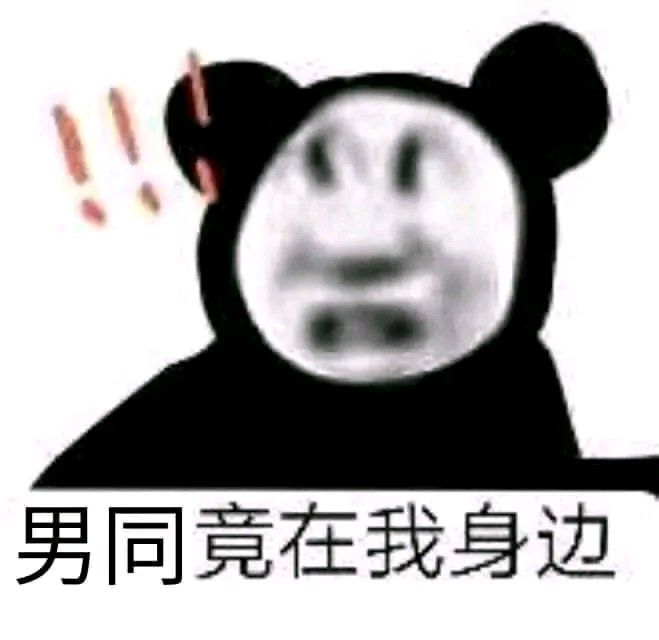
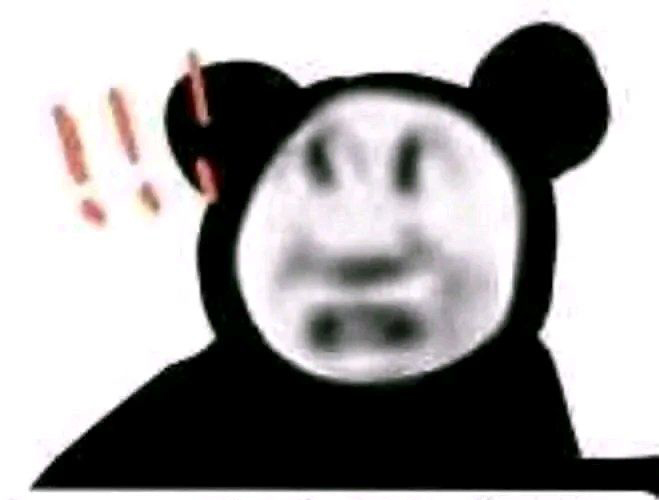
-> 表情包function

diff --git a/src/main/java/com/aye10032/functions/LuXunFunc.java b/src/main/java/com/aye10032/functions/LuXunFunc.java
@@ -52,8 +52,9 @@ public class LuXunFunc extends BaseFunc {
         if (msgs[0].equals(".鲁迅") && msgs.length == 2) {
             addText(1, msgs[1]);
             zibenbot.replyMsg(simpleMsg, zibenbot.getImg(output_path));
-        } else if (msgs[0].contains("竟在") && msgs[0].contains(".jpg") && msgs.length == 1) {
-            //todo 待写
+        } else if ((msgs[0].contains("竟在") || msgs[0].contains("竟是")) && msgs[0].contains(".jpg") && msgs.length == 1) {
+            addText(2, simpleMsg.getMsg().substring(0, simpleMsg.getMsg().lastIndexOf('.')));
+            replyMsg(simpleMsg, zibenbot.getImg(output_path));
         } else if (msgs[0].equals(".黑白") && msgs.length >= 2) {
             List<Image> images = zibenbot.getImgFromMsg(simpleMsg);
             if (images.size() == 0) {
@@ -64,7 +65,7 @@ public class LuXunFunc extends BaseFunc {
                     ImageIO.write((RenderedImage) images.get(0), "png", file);
 //                    addBlack_White(download_img_path, Arrays.copyOfRange(msgs, 1, msgs.length));
                     StringBuilder builder = new StringBuilder();
-                    for (String str:msgs){
+                    for (String str : msgs) {
                         builder.append(str).append("\n");
                     }
                     zibenbot.replyMsg(simpleMsg, builder.toString());
@@ -75,13 +76,14 @@ public class LuXunFunc extends BaseFunc {
         }
     }
 
-/*    public static void main(String[] args) {
-        File os = new File("data\\cv");
-
-        LuXunFunc luXunFunc = new LuXunFunc(os.getAbsolutePath());
-//        luXunFunc.addText(1, "我没说过 --鲁迅");
-        luXunFunc.addBlack_White("data\\image\\biaoqing\\test.png",new String[]{" 人固有一死 "," people always die "});
-    }*/
+//    public static void main(String[] args) {
+//        System.load(System.getProperty("user.dir") + "\\data\\cv\\opencv_java430.dll");
+////        File os = new File("data\\cv");
+//
+//        LuXunFunc luXunFunc = new LuXunFunc(os.getAbsolutePath());
+////        luXunFunc.addText(1, "我没说过 --鲁迅");
+//        luXunFunc.addBlack_White("data\\image\\biaoqing\\test.png",new String[]{" 人固有一死 "," people always die "});
+//    }
 
     public void addText(int flag, String text) {
         Mat src = imread(ImgMap.get(flag));
@@ -93,22 +95,52 @@ public class LuXunFunc extends BaseFunc {
         Mat dst = src.clone();
 
         Font font = new Font("微软雅黑", Font.PLAIN, 130);
+        List<String> text_list = new ArrayList<>();
+
+        int last = text.length() % 10;
+        int times = text.length() / 10;
+        if (times>=1) {
+            for (int i = 0; i < times; i++) {
+                text_list.add(text.substring(i * 10, i * 10 + 10));
+            }
+        }
+        if (last != 0) {
+            StringBuilder builder = new StringBuilder();
+            String substring = text.substring(text.length() - last, text.length());
+            if (times == 0){
+                for (int i = 0; i < (10 - last) / 2; i++) {
+                    builder.append("    ");
+                }
+                builder.append(substring);
+                for (int i = 0; i < (10-last)/2; i++) {
+                    builder.append("    ");
+                }
+            }else {
+                builder.append(substring);
+                for (int i = 0; i < 10 - last; i++) {
+                    builder.append("    ");
+                }
+            }
+            text_list.add(builder.toString());
+        }
         try {
-            createImage(text, font, new File(text_path));
-            Mat text_src = imread(text_path);
+            for (String str : text_list) {
+                createImage(str, font, new File(text_path));
+                Mat text_src = imread(text_path);
 
-            float text_height = text_src.rows();
-            float text_width = text_src.cols();
+                float text_height = text_src.rows();
+                float text_width = text_src.cols();
 
-            System.out.println(text_width + " " + text_height);
-            text_height = (width / text_width) * text_height;
-            System.out.println(text_width + " " + text_height);
-            resize(text_src, text_src, new Size(width, text_height), 0, 0, Imgproc.INTER_AREA);
+//                System.out.println(text_width + " " + text_height);
+                text_height = (width / text_width) * text_height;
+//                System.out.println(text_width + " " + text_height);
+                resize(text_src, text_src, new Size(width, text_height), 0, 0, Imgproc.INTER_AREA);
 
-            List<Mat> imgs = new ArrayList<>();
-            imgs.add(dst);
-            imgs.add(text_src);
-            vconcat(imgs, dst);
+                List<Mat> imgs = new ArrayList<>();
+                imgs.add(dst);
+                imgs.add(text_src);
+                vconcat(imgs, dst);
+            }
             imwrite(output_path, dst);
         } catch (Exception e) {
             e.printStackTrace();
